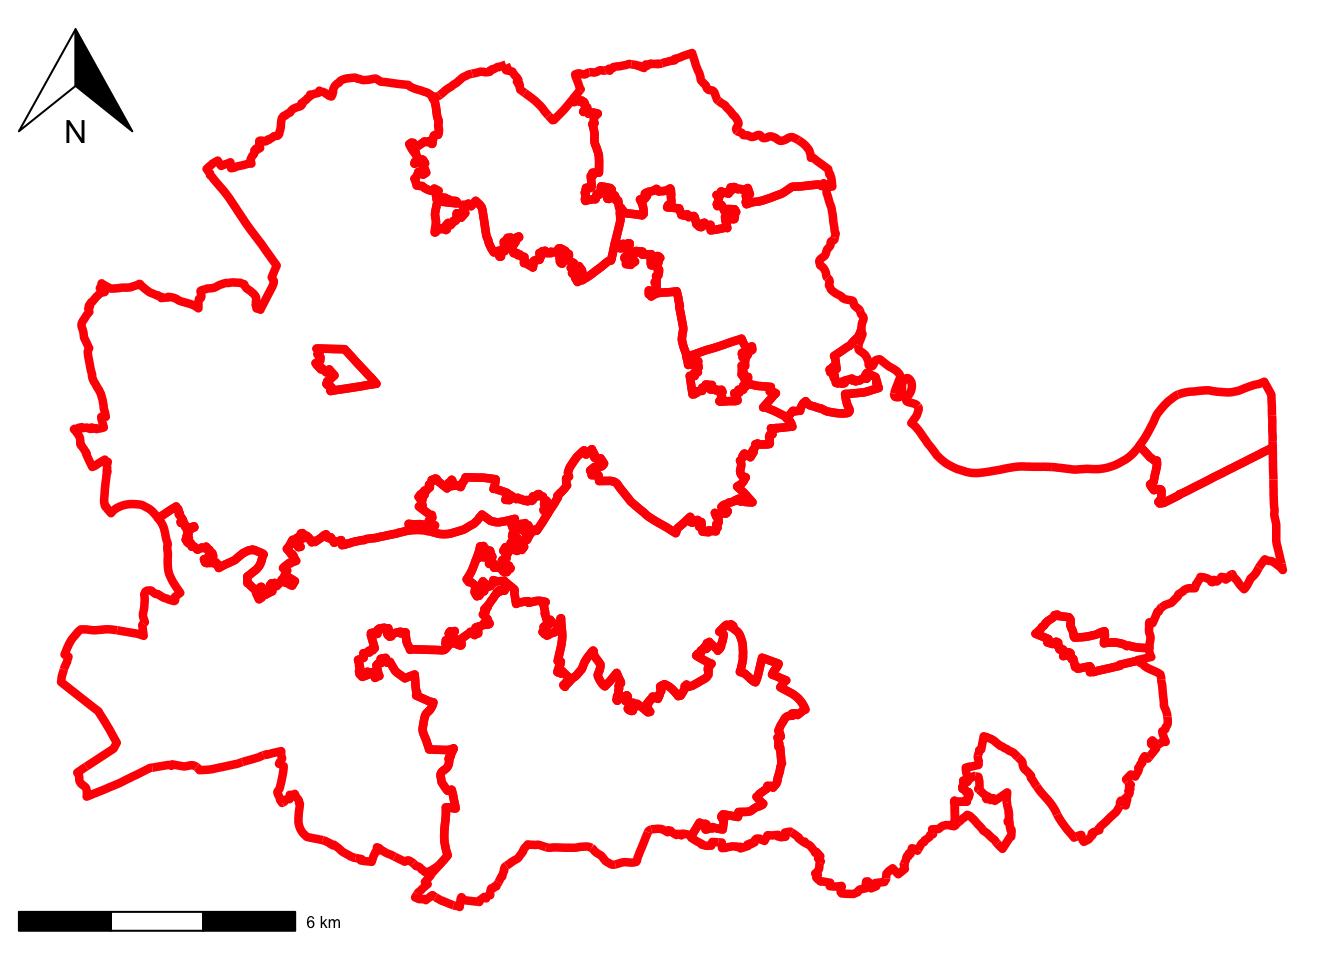
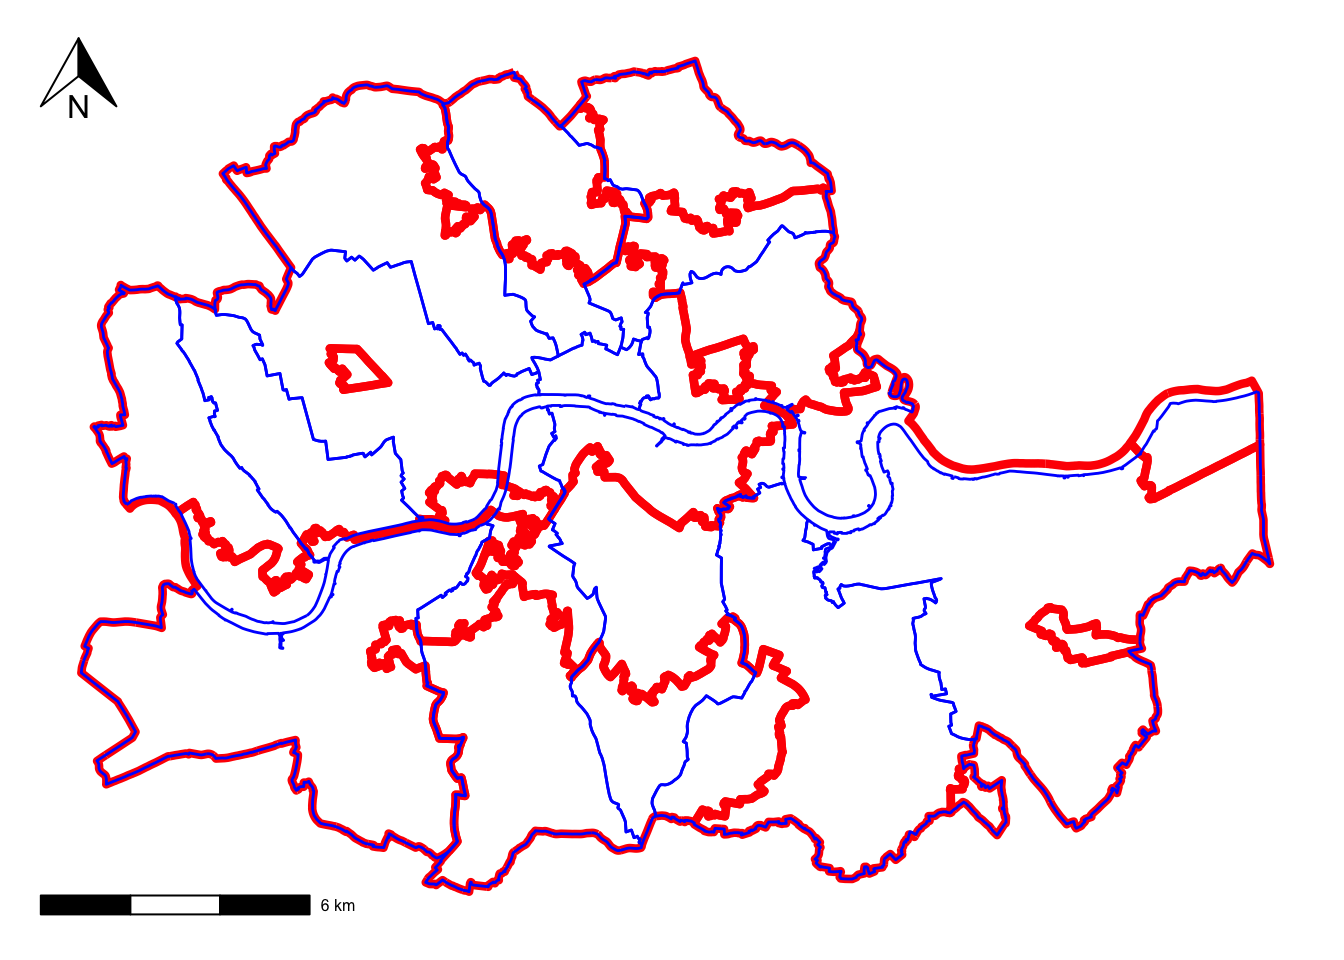
re-render

diff --git a/docs/clusteringR.html b/docs/clusteringR.html
@@ -950,14 +950,28 @@ Geodetic CRS:  WGS 84
 </div>
 <p>And we can map the result:</p>
 <div class="cell">
-<div class="sourceCode cell-code" id="cb28"><pre class="sourceCode r code-with-copy"><code class="sourceCode r"><span id="cb28-1"><a href="#cb28-1" aria-hidden="true" tabindex="-1"></a>map_regions <span class="ot">=</span> <span class="fu">tm_shape</span>(abb_regions) <span class="sc">+</span></span>
-<span id="cb28-2"><a href="#cb28-2" aria-hidden="true" tabindex="-1"></a>  <span class="fu">tm_borders</span>(<span class="at">col =</span> <span class="st">"red"</span>, <span class="at">lwd =</span> <span class="dv">1</span>)  <span class="sc">+</span> <span class="co"># add borders</span></span>
-<span id="cb28-3"><a href="#cb28-3" aria-hidden="true" tabindex="-1"></a>  <span class="fu">tm_compass</span>(<span class="at">type =</span> <span class="st">"arrow"</span>, <span class="at">position =</span> <span class="fu">c</span>(<span class="st">"left"</span>, <span class="st">"top"</span>) , <span class="at">size =</span> <span class="dv">1</span>) <span class="sc">+</span> <span class="co"># add compass</span></span>
-<span id="cb28-4"><a href="#cb28-4" aria-hidden="true" tabindex="-1"></a>  <span class="fu">tm_scale_bar</span>(<span class="at">breaks =</span> <span class="fu">c</span>(<span class="dv">0</span>,<span class="dv">1</span>,<span class="dv">2</span>,<span class="dv">3</span>), <span class="at">text.size =</span> <span class="fl">0.5</span>, <span class="at">position =</span>  <span class="fu">c</span>(<span class="st">"left"</span>, <span class="st">"bottom"</span>)) <span class="co"># add scale bar</span></span></code><button title="Copy to Clipboard" class="code-copy-button"><i class="bi"></i></button></pre></div>
-<div class="cell-output cell-output-stderr">
-<pre><code>! `tm_scale_bar()` is deprecated. Please use `tm_scalebar()` instead.</code></pre>
-</div>
-<div class="sourceCode cell-code" id="cb30"><pre class="sourceCode r code-with-copy"><code class="sourceCode r"><span id="cb30-1"><a href="#cb30-1" aria-hidden="true" tabindex="-1"></a>map_regions</span></code><button title="Copy to Clipboard" class="code-copy-button"><i class="bi"></i></button></pre></div>
+<div class="sourceCode cell-code" id="cb28"><pre class="sourceCode r code-with-copy"><code class="sourceCode r"><span id="cb28-1"><a href="#cb28-1" aria-hidden="true" tabindex="-1"></a><span class="co"># ggmap requires WGS84</span></span>
+<span id="cb28-2"><a href="#cb28-2" aria-hidden="true" tabindex="-1"></a>abb_regions <span class="ot">&lt;-</span> <span class="fu">st_transform</span>(abb_regions, <span class="dv">4326</span>)</span>
+<span id="cb28-3"><a href="#cb28-3" aria-hidden="true" tabindex="-1"></a></span>
+<span id="cb28-4"><a href="#cb28-4" aria-hidden="true" tabindex="-1"></a>bb <span class="ot">&lt;-</span> <span class="fu">st_bbox</span>(abb_regions)</span>
+<span id="cb28-5"><a href="#cb28-5" aria-hidden="true" tabindex="-1"></a></span>
+<span id="cb28-6"><a href="#cb28-6" aria-hidden="true" tabindex="-1"></a>map_regions_ggmap <span class="ot">&lt;-</span> <span class="fu">ggplot</span>(abb_regions) <span class="sc">+</span></span>
+<span id="cb28-7"><a href="#cb28-7" aria-hidden="true" tabindex="-1"></a>  <span class="co"># borders only (no fill)</span></span>
+<span id="cb28-8"><a href="#cb28-8" aria-hidden="true" tabindex="-1"></a>  <span class="fu">geom_sf</span>(<span class="at">fill =</span> <span class="cn">NA</span>, <span class="at">color =</span> <span class="st">"red"</span>, <span class="at">linewidth =</span> <span class="fl">1.5</span>) <span class="sc">+</span></span>
+<span id="cb28-9"><a href="#cb28-9" aria-hidden="true" tabindex="-1"></a>  </span>
+<span id="cb28-10"><a href="#cb28-10" aria-hidden="true" tabindex="-1"></a>  <span class="fu">annotation_north_arrow</span>(</span>
+<span id="cb28-11"><a href="#cb28-11" aria-hidden="true" tabindex="-1"></a>    <span class="at">location =</span> <span class="st">"tl"</span>,</span>
+<span id="cb28-12"><a href="#cb28-12" aria-hidden="true" tabindex="-1"></a>    <span class="at">style =</span> north_arrow_orienteering</span>
+<span id="cb28-13"><a href="#cb28-13" aria-hidden="true" tabindex="-1"></a>  ) <span class="sc">+</span></span>
+<span id="cb28-14"><a href="#cb28-14" aria-hidden="true" tabindex="-1"></a>  </span>
+<span id="cb28-15"><a href="#cb28-15" aria-hidden="true" tabindex="-1"></a>  <span class="fu">annotation_scale</span>(</span>
+<span id="cb28-16"><a href="#cb28-16" aria-hidden="true" tabindex="-1"></a>    <span class="at">location =</span> <span class="st">"bl"</span>,</span>
+<span id="cb28-17"><a href="#cb28-17" aria-hidden="true" tabindex="-1"></a>    <span class="at">text_cex =</span> <span class="fl">0.5</span></span>
+<span id="cb28-18"><a href="#cb28-18" aria-hidden="true" tabindex="-1"></a>  ) <span class="sc">+</span></span>
+<span id="cb28-19"><a href="#cb28-19" aria-hidden="true" tabindex="-1"></a>  </span>
+<span id="cb28-20"><a href="#cb28-20" aria-hidden="true" tabindex="-1"></a>  <span class="fu">theme_void</span>()</span>
+<span id="cb28-21"><a href="#cb28-21" aria-hidden="true" tabindex="-1"></a></span>
+<span id="cb28-22"><a href="#cb28-22" aria-hidden="true" tabindex="-1"></a>map_regions_ggmap</span></code><button title="Copy to Clipboard" class="code-copy-button"><i class="bi"></i></button></pre></div>
 <div class="cell-output-display">
 <div>
 <figure class="figure">
@@ -966,79 +980,48 @@ Geodetic CRS:  WGS 84
 </div>
 </div>
 </div>
+<p>To compare with the original divisions, we can overlay the map above with the one corresponding to the administrative boundaries:</p>
 <div class="cell">
-<div class="sourceCode cell-code" id="cb31"><pre class="sourceCode r code-with-copy"><code class="sourceCode r"><span id="cb31-1"><a href="#cb31-1" aria-hidden="true" tabindex="-1"></a><span class="co"># ggmap requires WGS84</span></span>
-<span id="cb31-2"><a href="#cb31-2" aria-hidden="true" tabindex="-1"></a>abb_regions <span class="ot">&lt;-</span> <span class="fu">st_transform</span>(abb_regions, <span class="dv">4326</span>)</span>
-<span id="cb31-3"><a href="#cb31-3" aria-hidden="true" tabindex="-1"></a></span>
-<span id="cb31-4"><a href="#cb31-4" aria-hidden="true" tabindex="-1"></a>bb <span class="ot">&lt;-</span> <span class="fu">st_bbox</span>(abb_regions)</span>
-<span id="cb31-5"><a href="#cb31-5" aria-hidden="true" tabindex="-1"></a></span>
-<span id="cb31-6"><a href="#cb31-6" aria-hidden="true" tabindex="-1"></a>map_regions_ggmap <span class="ot">&lt;-</span> <span class="fu">ggplot</span>(abb_regions) <span class="sc">+</span></span>
-<span id="cb31-7"><a href="#cb31-7" aria-hidden="true" tabindex="-1"></a>  <span class="co"># borders only (no fill)</span></span>
-<span id="cb31-8"><a href="#cb31-8" aria-hidden="true" tabindex="-1"></a>  <span class="fu">geom_sf</span>(<span class="at">fill =</span> <span class="cn">NA</span>, <span class="at">color =</span> <span class="st">"red"</span>, <span class="at">linewidth =</span> <span class="fl">1.5</span>) <span class="sc">+</span></span>
-<span id="cb31-9"><a href="#cb31-9" aria-hidden="true" tabindex="-1"></a>  </span>
-<span id="cb31-10"><a href="#cb31-10" aria-hidden="true" tabindex="-1"></a>  <span class="fu">annotation_north_arrow</span>(</span>
-<span id="cb31-11"><a href="#cb31-11" aria-hidden="true" tabindex="-1"></a>    <span class="at">location =</span> <span class="st">"tl"</span>,</span>
-<span id="cb31-12"><a href="#cb31-12" aria-hidden="true" tabindex="-1"></a>    <span class="at">style =</span> north_arrow_orienteering</span>
-<span id="cb31-13"><a href="#cb31-13" aria-hidden="true" tabindex="-1"></a>  ) <span class="sc">+</span></span>
-<span id="cb31-14"><a href="#cb31-14" aria-hidden="true" tabindex="-1"></a>  </span>
-<span id="cb31-15"><a href="#cb31-15" aria-hidden="true" tabindex="-1"></a>  <span class="fu">annotation_scale</span>(</span>
-<span id="cb31-16"><a href="#cb31-16" aria-hidden="true" tabindex="-1"></a>    <span class="at">location =</span> <span class="st">"bl"</span>,</span>
-<span id="cb31-17"><a href="#cb31-17" aria-hidden="true" tabindex="-1"></a>    <span class="at">text_cex =</span> <span class="fl">0.5</span></span>
-<span id="cb31-18"><a href="#cb31-18" aria-hidden="true" tabindex="-1"></a>  ) <span class="sc">+</span></span>
-<span id="cb31-19"><a href="#cb31-19" aria-hidden="true" tabindex="-1"></a>  </span>
-<span id="cb31-20"><a href="#cb31-20" aria-hidden="true" tabindex="-1"></a>  <span class="fu">theme_void</span>()</span>
-<span id="cb31-21"><a href="#cb31-21" aria-hidden="true" tabindex="-1"></a></span>
-<span id="cb31-22"><a href="#cb31-22" aria-hidden="true" tabindex="-1"></a>map_regions_ggmap</span></code><button title="Copy to Clipboard" class="code-copy-button"><i class="bi"></i></button></pre></div>
+<div class="sourceCode cell-code" id="cb29"><pre class="sourceCode r code-with-copy"><code class="sourceCode r"><span id="cb29-1"><a href="#cb29-1" aria-hidden="true" tabindex="-1"></a>map_regions_boroughs_gg <span class="ot">&lt;-</span> <span class="fu">ggplot</span>() <span class="sc">+</span></span>
+<span id="cb29-2"><a href="#cb29-2" aria-hidden="true" tabindex="-1"></a>  <span class="co"># regions in red</span></span>
+<span id="cb29-3"><a href="#cb29-3" aria-hidden="true" tabindex="-1"></a>  <span class="fu">geom_sf</span>(<span class="at">data =</span> abb_regions,</span>
+<span id="cb29-4"><a href="#cb29-4" aria-hidden="true" tabindex="-1"></a>          <span class="at">fill =</span> <span class="cn">NA</span>,</span>
+<span id="cb29-5"><a href="#cb29-5" aria-hidden="true" tabindex="-1"></a>          <span class="at">color =</span> <span class="st">"red"</span>,</span>
+<span id="cb29-6"><a href="#cb29-6" aria-hidden="true" tabindex="-1"></a>          <span class="at">linewidth =</span> <span class="fl">1.5</span>) <span class="sc">+</span></span>
+<span id="cb29-7"><a href="#cb29-7" aria-hidden="true" tabindex="-1"></a>  <span class="co"># boroughs in green</span></span>
+<span id="cb29-8"><a href="#cb29-8" aria-hidden="true" tabindex="-1"></a>  <span class="fu">geom_sf</span>(<span class="at">data =</span> boroughs,</span>
+<span id="cb29-9"><a href="#cb29-9" aria-hidden="true" tabindex="-1"></a>          <span class="at">fill =</span> <span class="cn">NA</span>,</span>
+<span id="cb29-10"><a href="#cb29-10" aria-hidden="true" tabindex="-1"></a>          <span class="at">color =</span> <span class="st">"blue"</span>,</span>
+<span id="cb29-11"><a href="#cb29-11" aria-hidden="true" tabindex="-1"></a>          <span class="at">linewidth =</span> <span class="fl">0.5</span>) <span class="sc">+</span></span>
+<span id="cb29-12"><a href="#cb29-12" aria-hidden="true" tabindex="-1"></a>  </span>
+<span id="cb29-13"><a href="#cb29-13" aria-hidden="true" tabindex="-1"></a>  </span>
+<span id="cb29-14"><a href="#cb29-14" aria-hidden="true" tabindex="-1"></a>  <span class="co"># compass</span></span>
+<span id="cb29-15"><a href="#cb29-15" aria-hidden="true" tabindex="-1"></a>  <span class="fu">annotation_north_arrow</span>(</span>
+<span id="cb29-16"><a href="#cb29-16" aria-hidden="true" tabindex="-1"></a>    <span class="at">location    =</span> <span class="st">"tl"</span>,</span>
+<span id="cb29-17"><a href="#cb29-17" aria-hidden="true" tabindex="-1"></a>    <span class="at">which_north =</span> <span class="st">"true"</span>,</span>
+<span id="cb29-18"><a href="#cb29-18" aria-hidden="true" tabindex="-1"></a>    <span class="at">style       =</span> north_arrow_orienteering,</span>
+<span id="cb29-19"><a href="#cb29-19" aria-hidden="true" tabindex="-1"></a>    <span class="at">height      =</span> <span class="fu">unit</span>(<span class="dv">1</span>, <span class="st">"cm"</span>),</span>
+<span id="cb29-20"><a href="#cb29-20" aria-hidden="true" tabindex="-1"></a>    <span class="at">width       =</span> <span class="fu">unit</span>(<span class="dv">1</span>, <span class="st">"cm"</span>)</span>
+<span id="cb29-21"><a href="#cb29-21" aria-hidden="true" tabindex="-1"></a>  ) <span class="sc">+</span></span>
+<span id="cb29-22"><a href="#cb29-22" aria-hidden="true" tabindex="-1"></a>  </span>
+<span id="cb29-23"><a href="#cb29-23" aria-hidden="true" tabindex="-1"></a>  <span class="co"># scale bar</span></span>
+<span id="cb29-24"><a href="#cb29-24" aria-hidden="true" tabindex="-1"></a>  <span class="fu">annotation_scale</span>(</span>
+<span id="cb29-25"><a href="#cb29-25" aria-hidden="true" tabindex="-1"></a>    <span class="at">location =</span> <span class="st">"bl"</span>,</span>
+<span id="cb29-26"><a href="#cb29-26" aria-hidden="true" tabindex="-1"></a>    <span class="at">text_cex =</span> <span class="fl">0.5</span></span>
+<span id="cb29-27"><a href="#cb29-27" aria-hidden="true" tabindex="-1"></a>  ) <span class="sc">+</span></span>
+<span id="cb29-28"><a href="#cb29-28" aria-hidden="true" tabindex="-1"></a>  </span>
+<span id="cb29-29"><a href="#cb29-29" aria-hidden="true" tabindex="-1"></a>  <span class="fu">theme_minimal</span>() <span class="sc">+</span></span>
+<span id="cb29-30"><a href="#cb29-30" aria-hidden="true" tabindex="-1"></a>  <span class="fu">theme</span>(</span>
+<span id="cb29-31"><a href="#cb29-31" aria-hidden="true" tabindex="-1"></a>    <span class="at">axis.text  =</span> <span class="fu">element_blank</span>(),</span>
+<span id="cb29-32"><a href="#cb29-32" aria-hidden="true" tabindex="-1"></a>    <span class="at">axis.title =</span> <span class="fu">element_blank</span>(),</span>
+<span id="cb29-33"><a href="#cb29-33" aria-hidden="true" tabindex="-1"></a>    <span class="at">panel.grid =</span> <span class="fu">element_blank</span>()</span>
+<span id="cb29-34"><a href="#cb29-34" aria-hidden="true" tabindex="-1"></a>  )</span>
+<span id="cb29-35"><a href="#cb29-35" aria-hidden="true" tabindex="-1"></a></span>
+<span id="cb29-36"><a href="#cb29-36" aria-hidden="true" tabindex="-1"></a>map_regions_boroughs_gg</span></code><button title="Copy to Clipboard" class="code-copy-button"><i class="bi"></i></button></pre></div>
 <div class="cell-output-display">
 <div>
 <figure class="figure">
 <p><img src="clusteringR_files/figure-html/unnamed-chunk-24-1.png" class="img-fluid figure-img" width="672"></p>
-</figure>
-</div>
-</div>
-</div>
-<p>To compare with the original divisions, we can overlay the map above with the one corresponding to the administrative boundaries:</p>
-<div class="cell">
-<div class="sourceCode cell-code" id="cb32"><pre class="sourceCode r code-with-copy"><code class="sourceCode r"><span id="cb32-1"><a href="#cb32-1" aria-hidden="true" tabindex="-1"></a>map_regions_boroughs_gg <span class="ot">&lt;-</span> <span class="fu">ggplot</span>() <span class="sc">+</span></span>
-<span id="cb32-2"><a href="#cb32-2" aria-hidden="true" tabindex="-1"></a>  <span class="co"># regions in red</span></span>
-<span id="cb32-3"><a href="#cb32-3" aria-hidden="true" tabindex="-1"></a>  <span class="fu">geom_sf</span>(<span class="at">data =</span> abb_regions,</span>
-<span id="cb32-4"><a href="#cb32-4" aria-hidden="true" tabindex="-1"></a>          <span class="at">fill =</span> <span class="cn">NA</span>,</span>
-<span id="cb32-5"><a href="#cb32-5" aria-hidden="true" tabindex="-1"></a>          <span class="at">color =</span> <span class="st">"red"</span>,</span>
-<span id="cb32-6"><a href="#cb32-6" aria-hidden="true" tabindex="-1"></a>          <span class="at">linewidth =</span> <span class="fl">1.5</span>) <span class="sc">+</span></span>
-<span id="cb32-7"><a href="#cb32-7" aria-hidden="true" tabindex="-1"></a>  <span class="co"># boroughs in green</span></span>
-<span id="cb32-8"><a href="#cb32-8" aria-hidden="true" tabindex="-1"></a>  <span class="fu">geom_sf</span>(<span class="at">data =</span> boroughs,</span>
-<span id="cb32-9"><a href="#cb32-9" aria-hidden="true" tabindex="-1"></a>          <span class="at">fill =</span> <span class="cn">NA</span>,</span>
-<span id="cb32-10"><a href="#cb32-10" aria-hidden="true" tabindex="-1"></a>          <span class="at">color =</span> <span class="st">"blue"</span>,</span>
-<span id="cb32-11"><a href="#cb32-11" aria-hidden="true" tabindex="-1"></a>          <span class="at">linewidth =</span> <span class="fl">0.5</span>) <span class="sc">+</span></span>
-<span id="cb32-12"><a href="#cb32-12" aria-hidden="true" tabindex="-1"></a>  </span>
-<span id="cb32-13"><a href="#cb32-13" aria-hidden="true" tabindex="-1"></a>  </span>
-<span id="cb32-14"><a href="#cb32-14" aria-hidden="true" tabindex="-1"></a>  <span class="co"># compass</span></span>
-<span id="cb32-15"><a href="#cb32-15" aria-hidden="true" tabindex="-1"></a>  <span class="fu">annotation_north_arrow</span>(</span>
-<span id="cb32-16"><a href="#cb32-16" aria-hidden="true" tabindex="-1"></a>    <span class="at">location    =</span> <span class="st">"tl"</span>,</span>
-<span id="cb32-17"><a href="#cb32-17" aria-hidden="true" tabindex="-1"></a>    <span class="at">which_north =</span> <span class="st">"true"</span>,</span>
-<span id="cb32-18"><a href="#cb32-18" aria-hidden="true" tabindex="-1"></a>    <span class="at">style       =</span> north_arrow_orienteering,</span>
-<span id="cb32-19"><a href="#cb32-19" aria-hidden="true" tabindex="-1"></a>    <span class="at">height      =</span> <span class="fu">unit</span>(<span class="dv">1</span>, <span class="st">"cm"</span>),</span>
-<span id="cb32-20"><a href="#cb32-20" aria-hidden="true" tabindex="-1"></a>    <span class="at">width       =</span> <span class="fu">unit</span>(<span class="dv">1</span>, <span class="st">"cm"</span>)</span>
-<span id="cb32-21"><a href="#cb32-21" aria-hidden="true" tabindex="-1"></a>  ) <span class="sc">+</span></span>
-<span id="cb32-22"><a href="#cb32-22" aria-hidden="true" tabindex="-1"></a>  </span>
-<span id="cb32-23"><a href="#cb32-23" aria-hidden="true" tabindex="-1"></a>  <span class="co"># scale bar</span></span>
-<span id="cb32-24"><a href="#cb32-24" aria-hidden="true" tabindex="-1"></a>  <span class="fu">annotation_scale</span>(</span>
-<span id="cb32-25"><a href="#cb32-25" aria-hidden="true" tabindex="-1"></a>    <span class="at">location =</span> <span class="st">"bl"</span>,</span>
-<span id="cb32-26"><a href="#cb32-26" aria-hidden="true" tabindex="-1"></a>    <span class="at">text_cex =</span> <span class="fl">0.5</span></span>
-<span id="cb32-27"><a href="#cb32-27" aria-hidden="true" tabindex="-1"></a>  ) <span class="sc">+</span></span>
-<span id="cb32-28"><a href="#cb32-28" aria-hidden="true" tabindex="-1"></a>  </span>
-<span id="cb32-29"><a href="#cb32-29" aria-hidden="true" tabindex="-1"></a>  <span class="fu">theme_minimal</span>() <span class="sc">+</span></span>
-<span id="cb32-30"><a href="#cb32-30" aria-hidden="true" tabindex="-1"></a>  <span class="fu">theme</span>(</span>
-<span id="cb32-31"><a href="#cb32-31" aria-hidden="true" tabindex="-1"></a>    <span class="at">axis.text  =</span> <span class="fu">element_blank</span>(),</span>
-<span id="cb32-32"><a href="#cb32-32" aria-hidden="true" tabindex="-1"></a>    <span class="at">axis.title =</span> <span class="fu">element_blank</span>(),</span>
-<span id="cb32-33"><a href="#cb32-33" aria-hidden="true" tabindex="-1"></a>    <span class="at">panel.grid =</span> <span class="fu">element_blank</span>()</span>
-<span id="cb32-34"><a href="#cb32-34" aria-hidden="true" tabindex="-1"></a>  )</span>
-<span id="cb32-35"><a href="#cb32-35" aria-hidden="true" tabindex="-1"></a></span>
-<span id="cb32-36"><a href="#cb32-36" aria-hidden="true" tabindex="-1"></a>map_regions_boroughs_gg</span></code><button title="Copy to Clipboard" class="code-copy-button"><i class="bi"></i></button></pre></div>
-<div class="cell-output-display">
-<div>
-<figure class="figure">
-<p><img src="clusteringR_files/figure-html/unnamed-chunk-25-1.png" class="img-fluid figure-img" width="672"></p>
 </figure>
 </div>
 </div>
